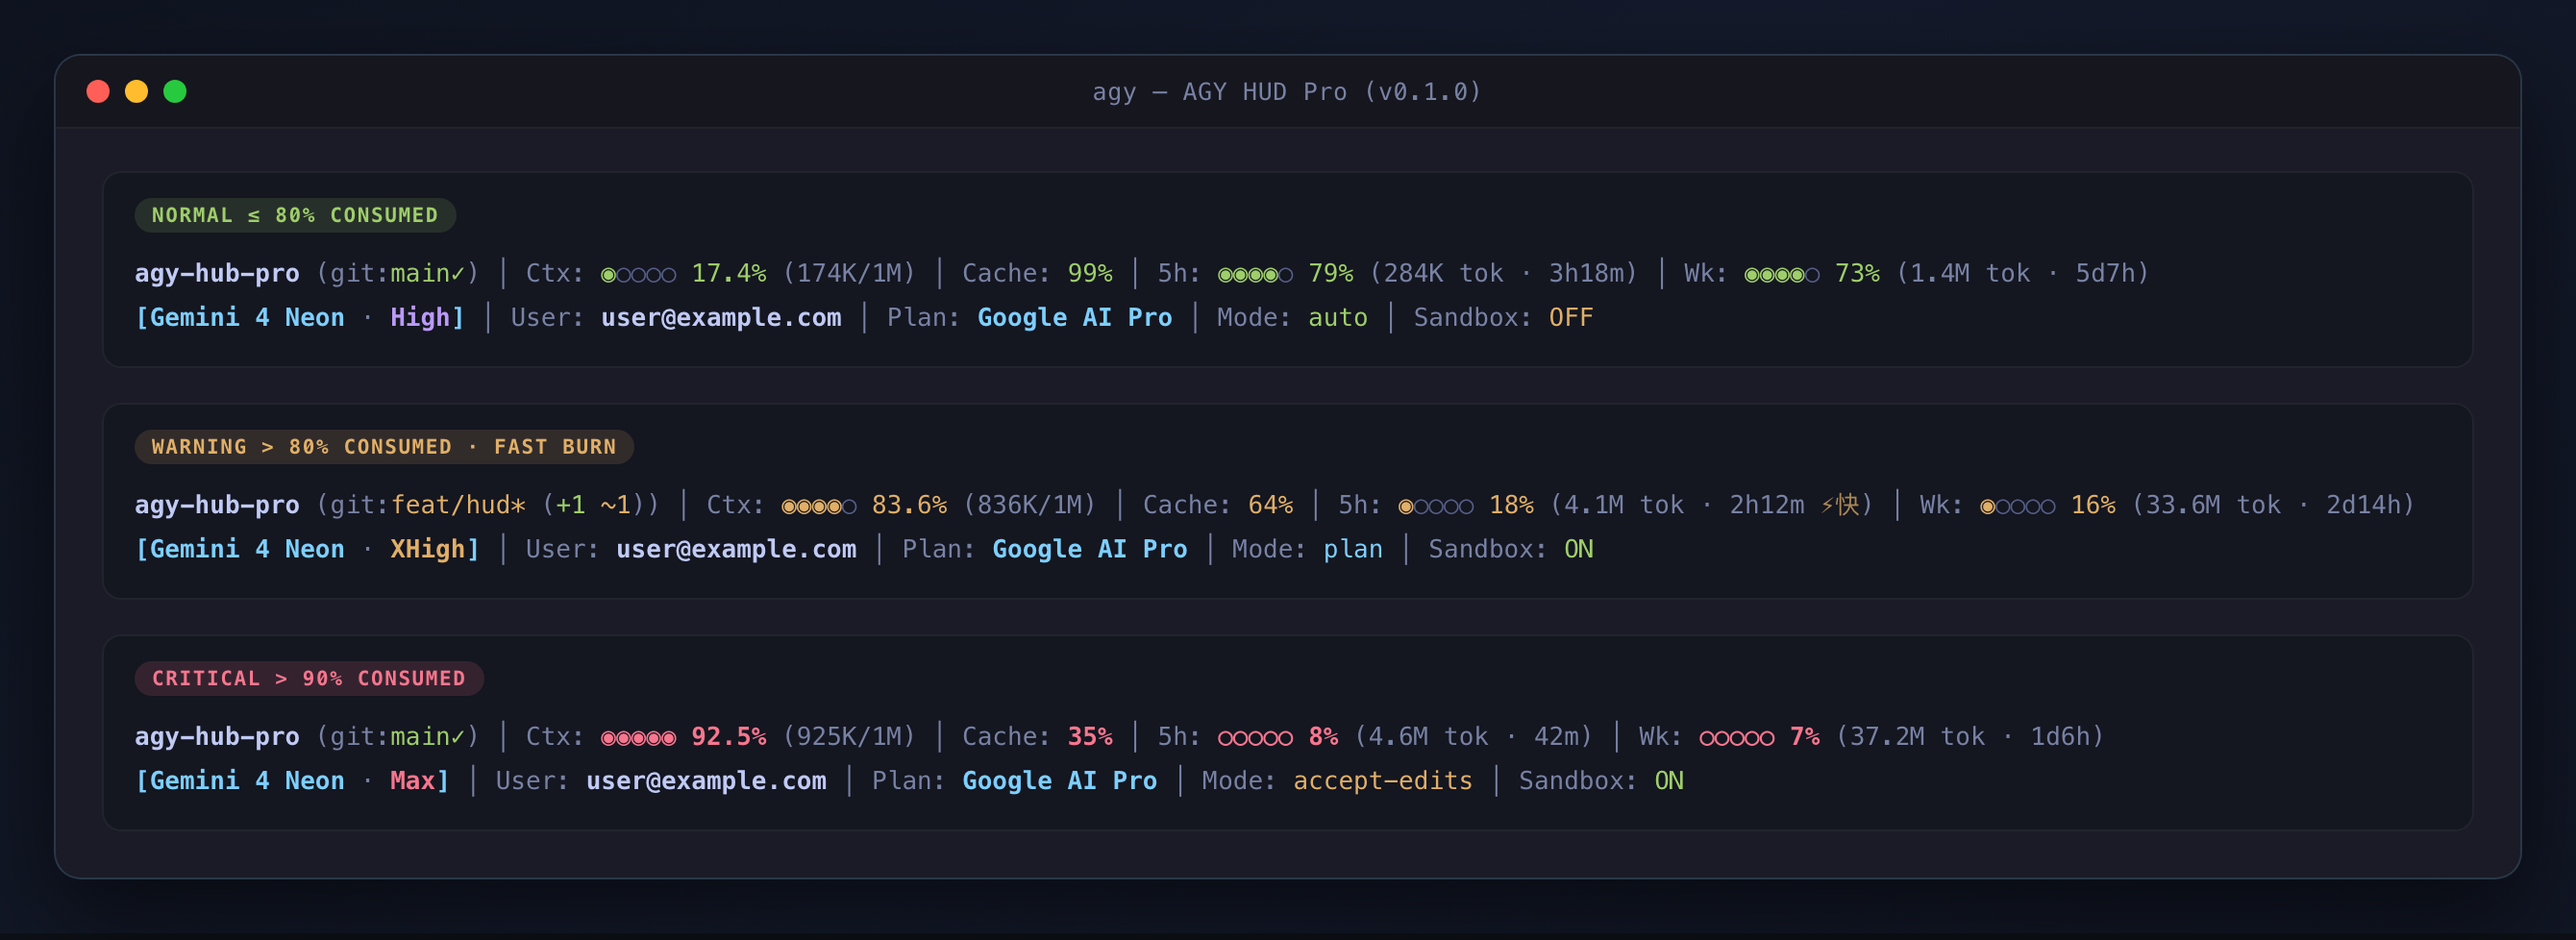
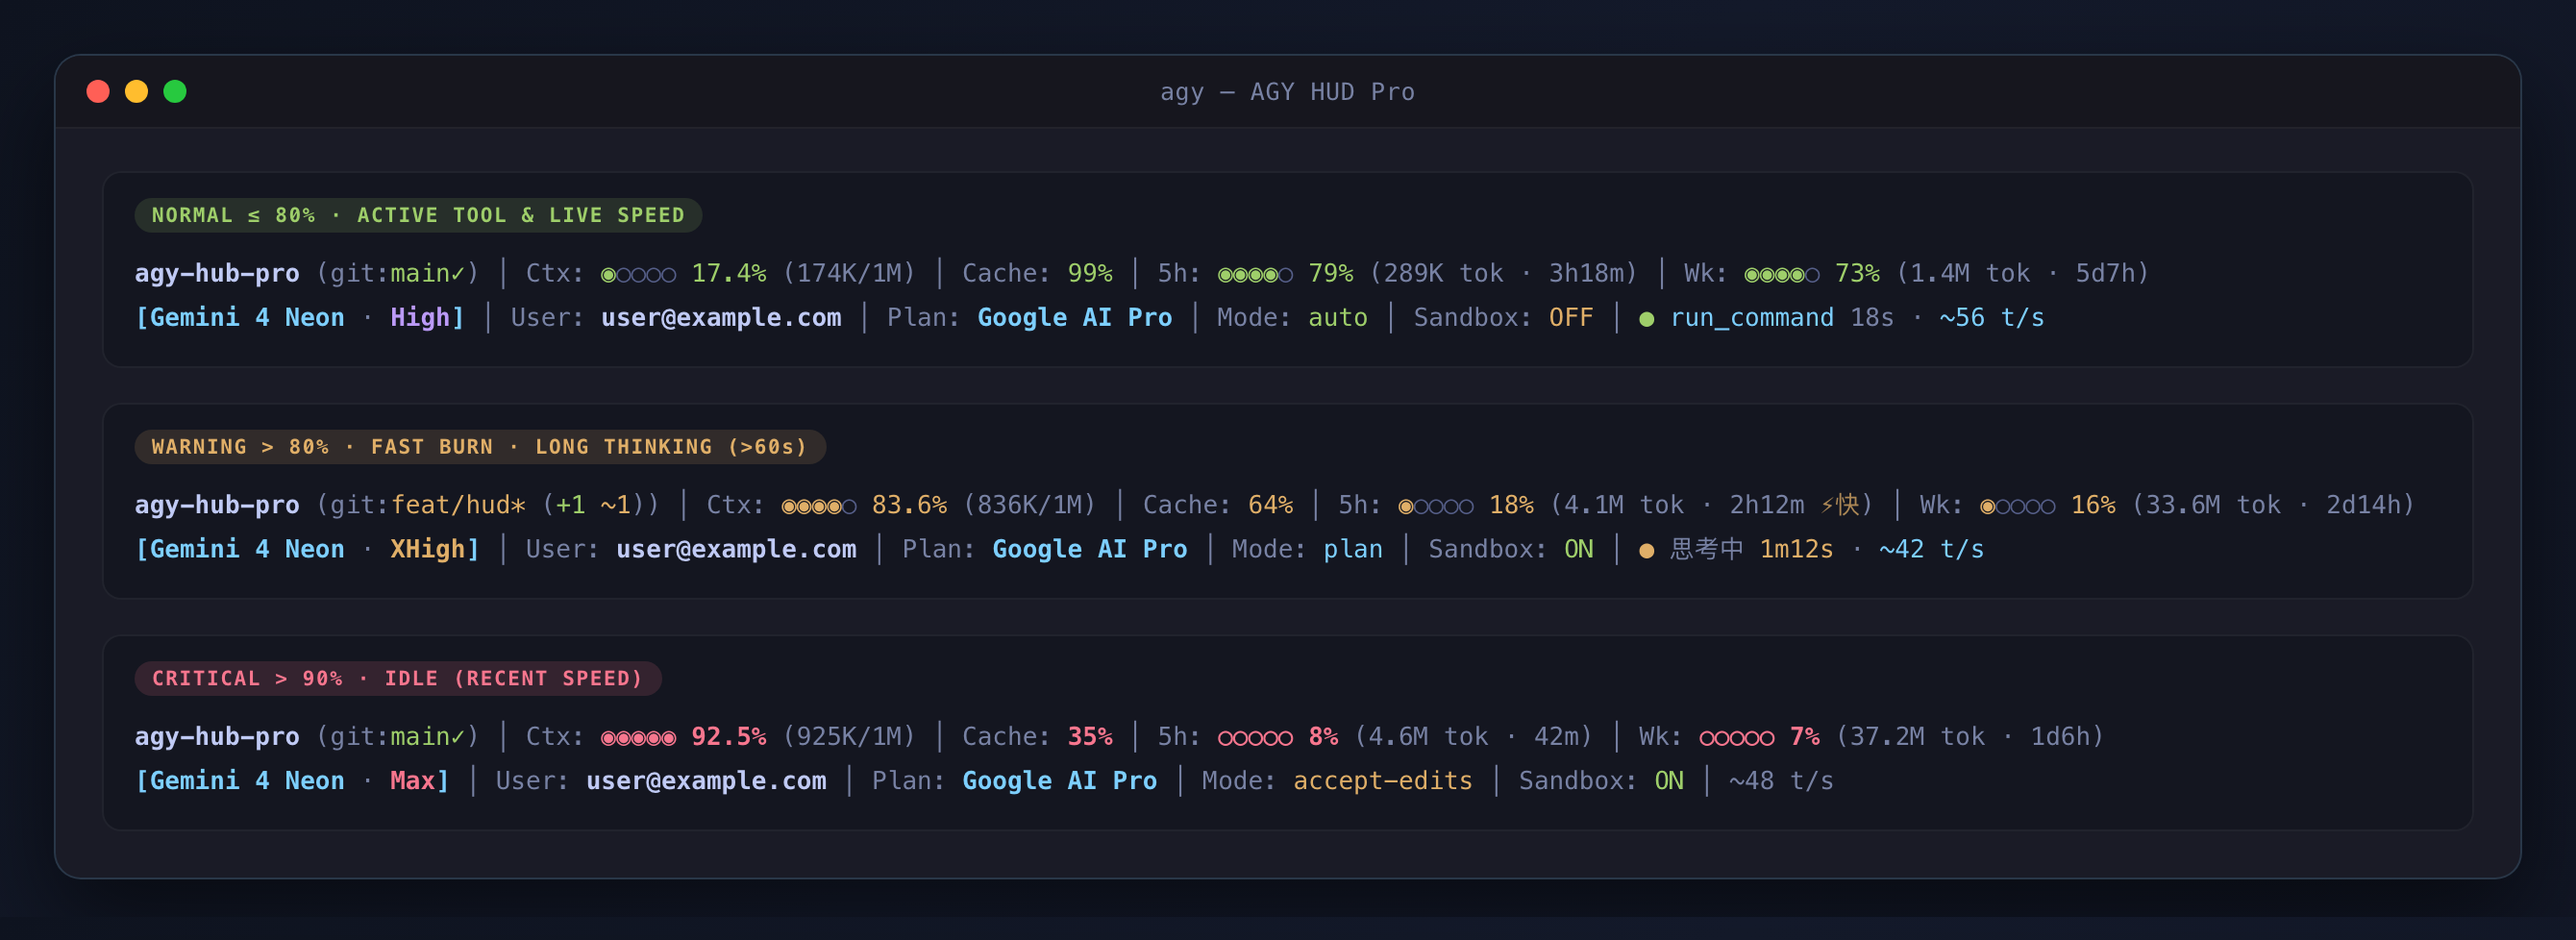
docs: update preview image with live activity, thinking state, and token speed (#9)

diff --git a/README.md b/README.md
@@ -15,8 +15,8 @@ A lightweight, zero-dependency **Antigravity CLI (`agy`)** two-line StatusLine d
 ![AGY HUD Pro Terminal Preview](./assets/preview.png)
 
 ```text
-agy-hub-pro (git:main✓) │ Ctx: ◉○○○○ 17.4% (174K/1M) │ Cache: 99% │ 5h: ◉◉◉◉○ 79% (284K tok · 3h18m) │ Wk: ◉◉◉◉○ 73% (1.4M tok · 5d7h)
-[Gemini 4 Neon · High] │ User: user@example.com │ Plan: Google AI Pro │ Mode: auto │ Sandbox: OFF
+agy-hub-pro (git:main✓) │ Ctx: ◉○○○○ 17.4% (174K/1M) │ Cache: 99% │ 5h: ◉◉◉◉○ 79% (289K tok · 3h18m) │ Wk: ◉◉◉◉○ 73% (1.4M tok · 5d7h)
+[Gemini 4 Neon · High] │ User: user@example.com │ Plan: Google AI Pro │ Mode: auto │ Sandbox: OFF │ ● run_command 18s · ~56 t/s
 ```
 
 ## Features

diff --git a/README.zh-CN.md b/README.zh-CN.md
@@ -15,8 +15,8 @@
 ![AGY HUD Pro 终端渲染效果预览](./assets/preview.png)
 
 ```text
-agy-hub-pro (git:main✓) │ Ctx: ◉○○○○ 17.4% (174K/1M) │ Cache: 99% │ 5h: ◉◉◉◉○ 79% (284K tok · 3h18m) │ Wk: ◉◉◉◉○ 73% (1.4M tok · 5d7h)
-[Gemini 4 Neon · High] │ User: user@example.com │ Plan: Google AI Pro │ Mode: auto │ Sandbox: OFF
+agy-hub-pro (git:main✓) │ Ctx: ◉○○○○ 17.4% (174K/1M) │ Cache: 99% │ 5h: ◉◉◉◉○ 79% (289K tok · 3h18m) │ Wk: ◉◉◉◉○ 73% (1.4M tok · 5d7h)
+[Gemini 4 Neon · High] │ User: user@example.com │ Plan: Google AI Pro │ Mode: auto │ Sandbox: OFF │ ● run_command 18s · ~56 t/s
 ```
 
 ## 核心特性
